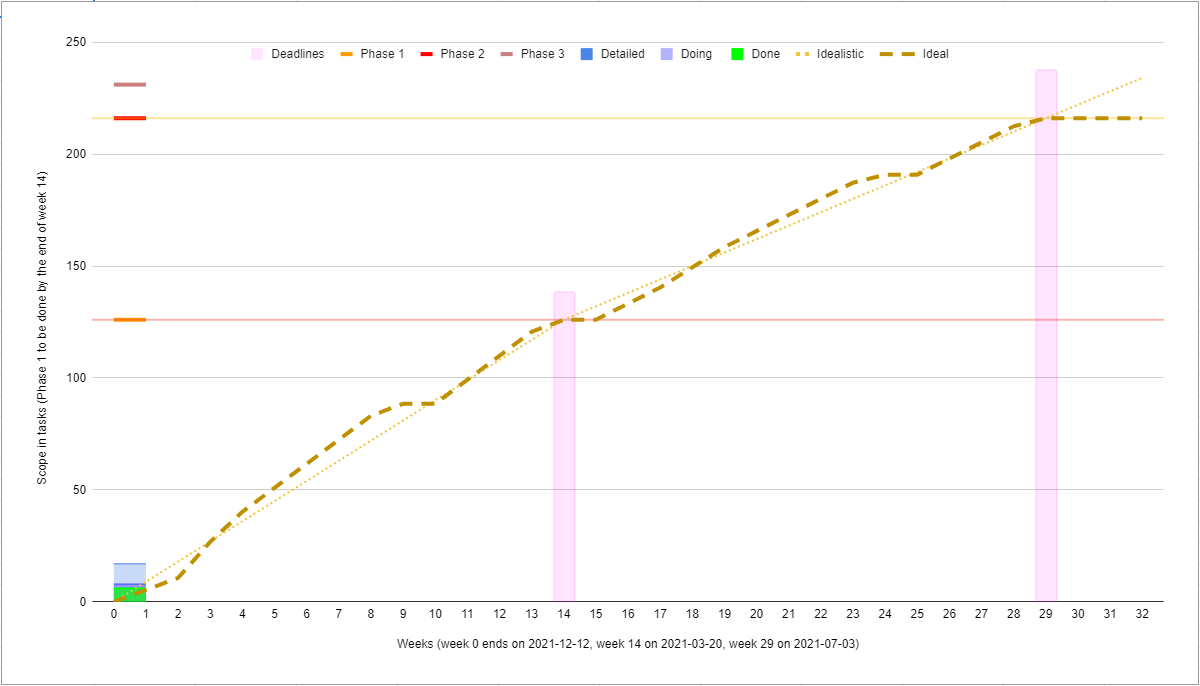
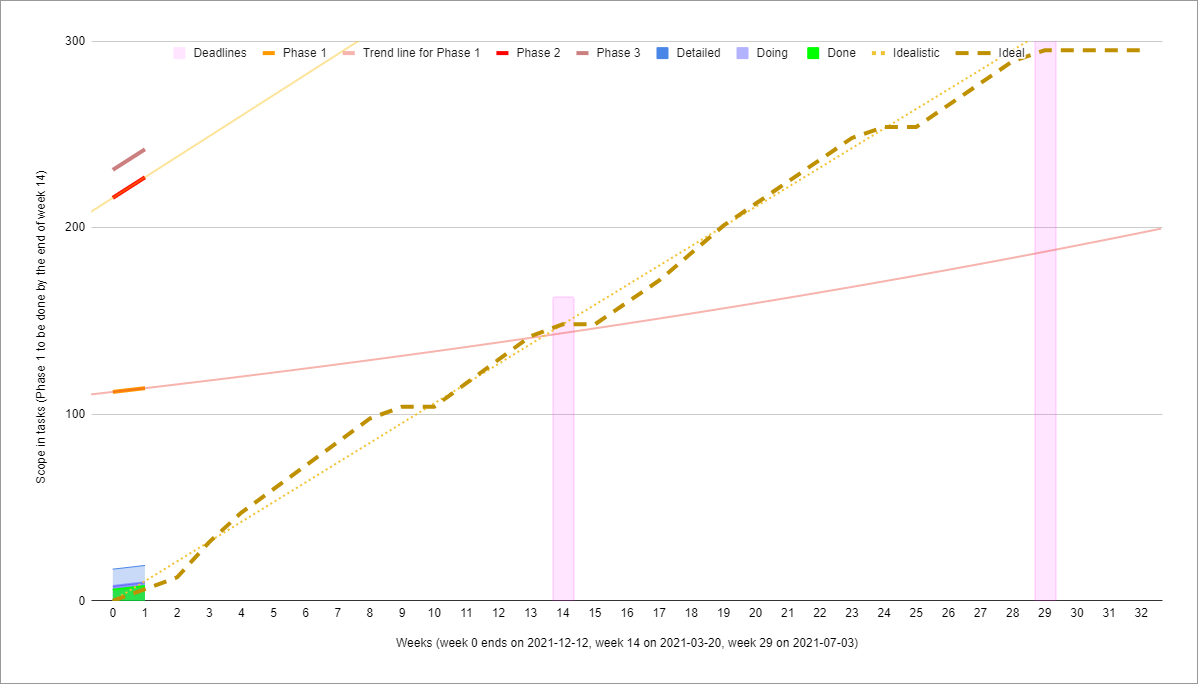
updating progress and projection with a 'standard' scope creep of 1.3

diff --git a/docs/progress.md b/docs/progress.md
@@ -4,7 +4,11 @@ To monitor and control the progress of the project I'm using an approach based o
 
 [More details](#project-details) below the chart. 
 
-## Week 0 - 2021-12-09 -- 2021-12-12
+## Week 1 - 2021-12-13 -- 2021-12-20
+*(Predictions are currently not very useful as there are only two incomplete data points.
+From previous experience 'scope creep' ration is 1.3 and that is what I am going to use until
+more reliable data is available).*
+
 ![Progress](progress.png)
 
 ## Project Details
